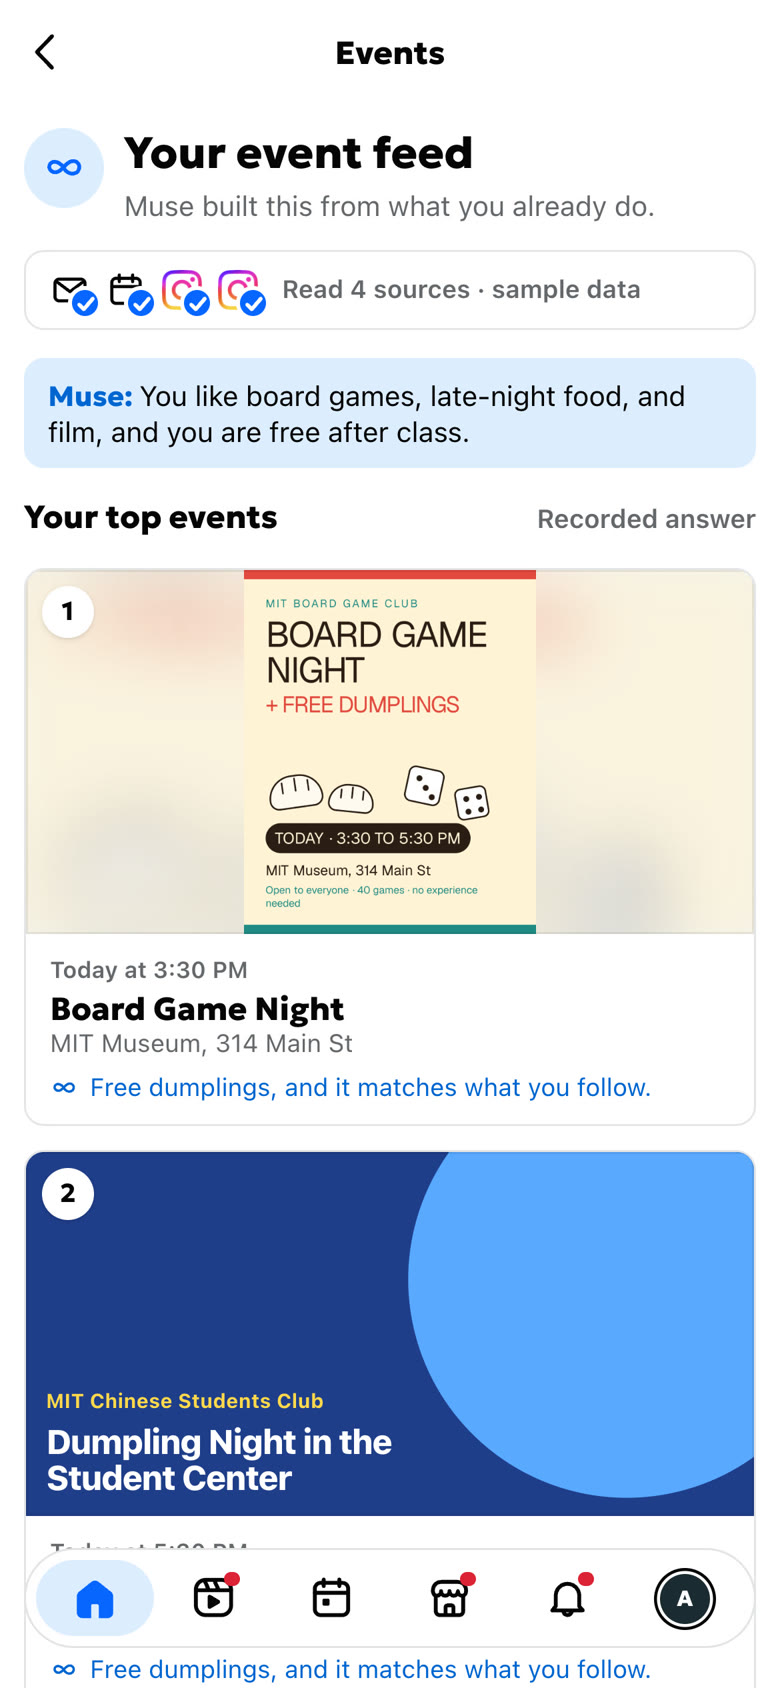
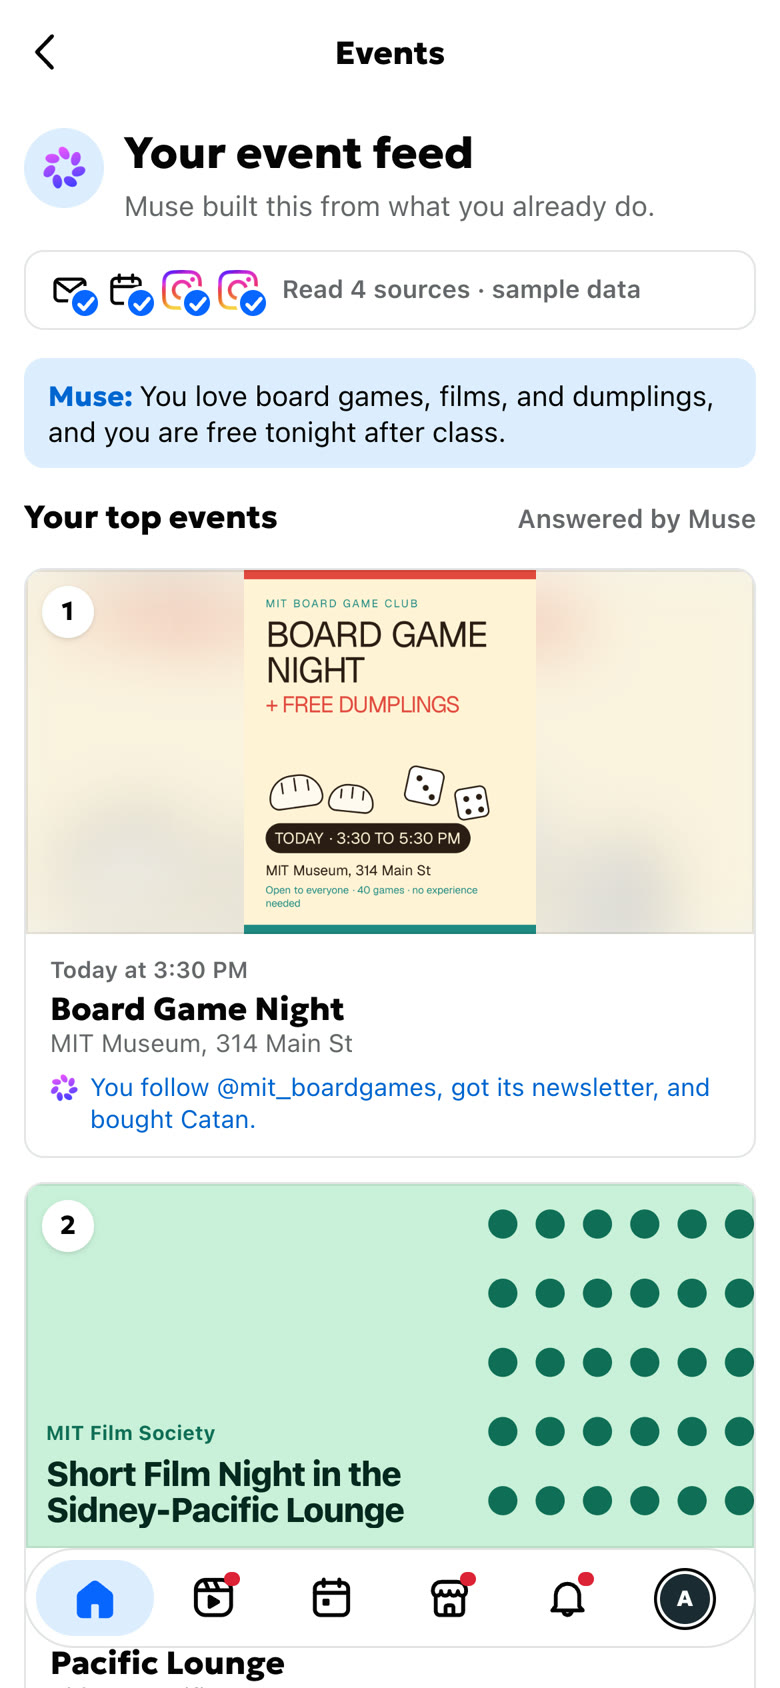
Opening decks: live Muse captures, Meta AI's mark, title-case roles, cast table
Captures retaken on a local production build with live Muse on the 3:05 PM
demo clock: the organizer review (read in 2.3 s), the posted event, the
curated feed (answered by Muse, Board Game Night first), and the walk home.
The Muse draft header uses Meta AI's real mark (public/brand/meta-ai.png,
unmodified). Roles in title case to match the stage. CAST.md records who
leads each moment.

diff --git a/public/demo/deck/muse/index.html b/public/demo/deck/muse/index.html
@@ -29,7 +29,7 @@
 
               <div class="draft" id="m-draft">
                 <div class="draft-head">
-                  <img src="../shared/brand/facebook-f.svg" alt="" />
+                  <img src="../shared/brand/meta-ai.png" alt="Meta AI" />
                   <div>
                     <p class="dh-title">Muse made your Facebook event</p>
                     <p class="dh-sub">Read from the club&rsquo;s Instagram post</p>
@@ -49,8 +49,8 @@
                 <p class="statement blue" id="m7-b">Less searching for students.</p>
               </div>
               <div class="cast" id="m7-cast">
-                <div class="who" id="c1"><p class="role">Event organizer</p><p class="name">Jing</p><i class="rule"></i></div>
-                <div class="who" id="c2"><p class="role">Facebook Events power user</p><p class="name">Jolyn</p><i class="rule"></i></div>
+                <div class="who" id="c1"><p class="role">Event Organizer</p><p class="name">Jing</p><i class="rule"></i></div>
+                <div class="who" id="c2"><p class="role">Facebook Events Power User</p><p class="name">Jolyn</p><i class="rule"></i></div>
                 <div class="who" id="c3"><p class="role">New to Facebook</p><p class="name">Lisa</p><i class="rule"></i></div>
                 <div class="who" id="c4"><p class="role">New to Facebook Events</p><p class="name">Trish</p><i class="rule"></i></div>
               </div>

diff --git a/public/demo/deck/problem/problem.js b/public/demo/deck/problem/problem.js
@@ -650,7 +650,7 @@
       meta: "2 PM · Stata Center lobby",
       tag: "Free food",
       /* The map's walk home: Muse's first stop. */
-      to: [1150, 682],
+      to: [1150, 652],
     },
   ];
   const ROW = { size: 380, top: 200 };

diff --git a/motion/opening/CAST.md b/motion/opening/CAST.md
@@ -1,0 +1,37 @@
+# Cast table: who leads each moment
+
+Every click is one moment. Lead is the one thing the room must notice; Support follows it; Decoration only fades or drifts; everything else is static. Ambient drift (`#drift`) runs under every rest frame.
+
+## Problem deck
+
+| # | Moment | Lead | Support | Decoration | Relationship |
+|---|---|---|---|---|---|
+| 0 | Caret | Caret fades in | | | Alone |
+| 1 | Question | Question types out | Eyebrow fades up first; caret glides to the line start | Key clicks | Sequence: eyebrow, then caret, then type |
+| 2 | First replies | "Nothing.", then "It's beyond saving." | Question lifts and shrinks; typing bubble | Dings | Overlap: the lift carries into the first pop; each pop keyed to its ding |
+| 3 | Love line | The big reply | Other replies dim | Ding | Together: dim and pop start as one beat |
+| 4 | Avalanche | The pile (about 120 unreadable bubbles, accelerating) | Real replies return to full and stay on top | Push-in at the end, dings throttled | Overlap with an exponential rate, never a flat stagger |
+| 5 | Exception | The line | | Silence | Hard cut, then the line |
+| 6 | Marketplace | MARKETPLACE on the blue band | Listing cards float in, then dim | Impact, camera punch | Sequence: cards, line, band opens, word lands with the impact |
+| 7 | App to scroll | Words rise left to right | Band closes, word and cards leave | | Sequence: the exit clears before the words |
+| 8 | App to DO | Blue line | First line lifts and greys; underline sweeps last | | Overlap |
+| 9 | Flyers | Pizza flyer to center | Boba from the right, Tea Party from the left, then the ring | Pops | Sequence, then an accelerating overlap |
+| 10 | Overload | Free-food flyer surfaces in the middle | Emails, posts, chats bury everything | Slow camera drift | Overlap; the last cards target the middle to bury it |
+| 11 | Buried | The flyer comes forward | Pile darkens and pushes in | Silence | Together |
+| 12 | Stamp | EVENT ENDED | Flyer dims, small shake | Thud and low tone | Together at impact |
+| 13 | Statement | Blue line | White line first | Thud on the blue line | Sequence |
+| 14 | Next deal | The question | Listing card and flyer slide in from opposite sides | | Overlap |
+| 15 | Muse organizes | Three flyers into a row, scanned, each landing where it appears in the app | Noise drifts away; extracted cards; phones rise | Scan shimmer, taps | Sequence by cause: read, extract, land |
+| 16 | End card | Events, reimagined. | Facebook f pops; tagline last | Swell | Sequence |
+
+## Muse deck
+
+| # | Moment | Lead | Support | Decoration | Relationship |
+|---|---|---|---|---|---|
+| 0 | Post | The Instagram post | | | Alone |
+| 1 | Share and read | The flyer lifting out of the post | Phone fades; caption; empty draft arrives | Tap, scan | Carry: the flyer is one object from phone to stage |
+| 2 | Fields | Each value landing in the draft | Its box on the flyer, its link | Taps | Sequence by field, in flyer order |
+| 3 | Post it | The real posted screen | The real review screen, the tap on Post | Swell | Sequence |
+| 4 | For students | Board Game Night ring in the curated feed | Screen dissolves inside the same phone | | Sequence |
+| 5 | Less work | Blue line | White line | | Fade to black, then lines |
+| 6 | Cast | The four roles | Names in blue, rules draw under each | Swell | Hard cut, then an eased overlap |
